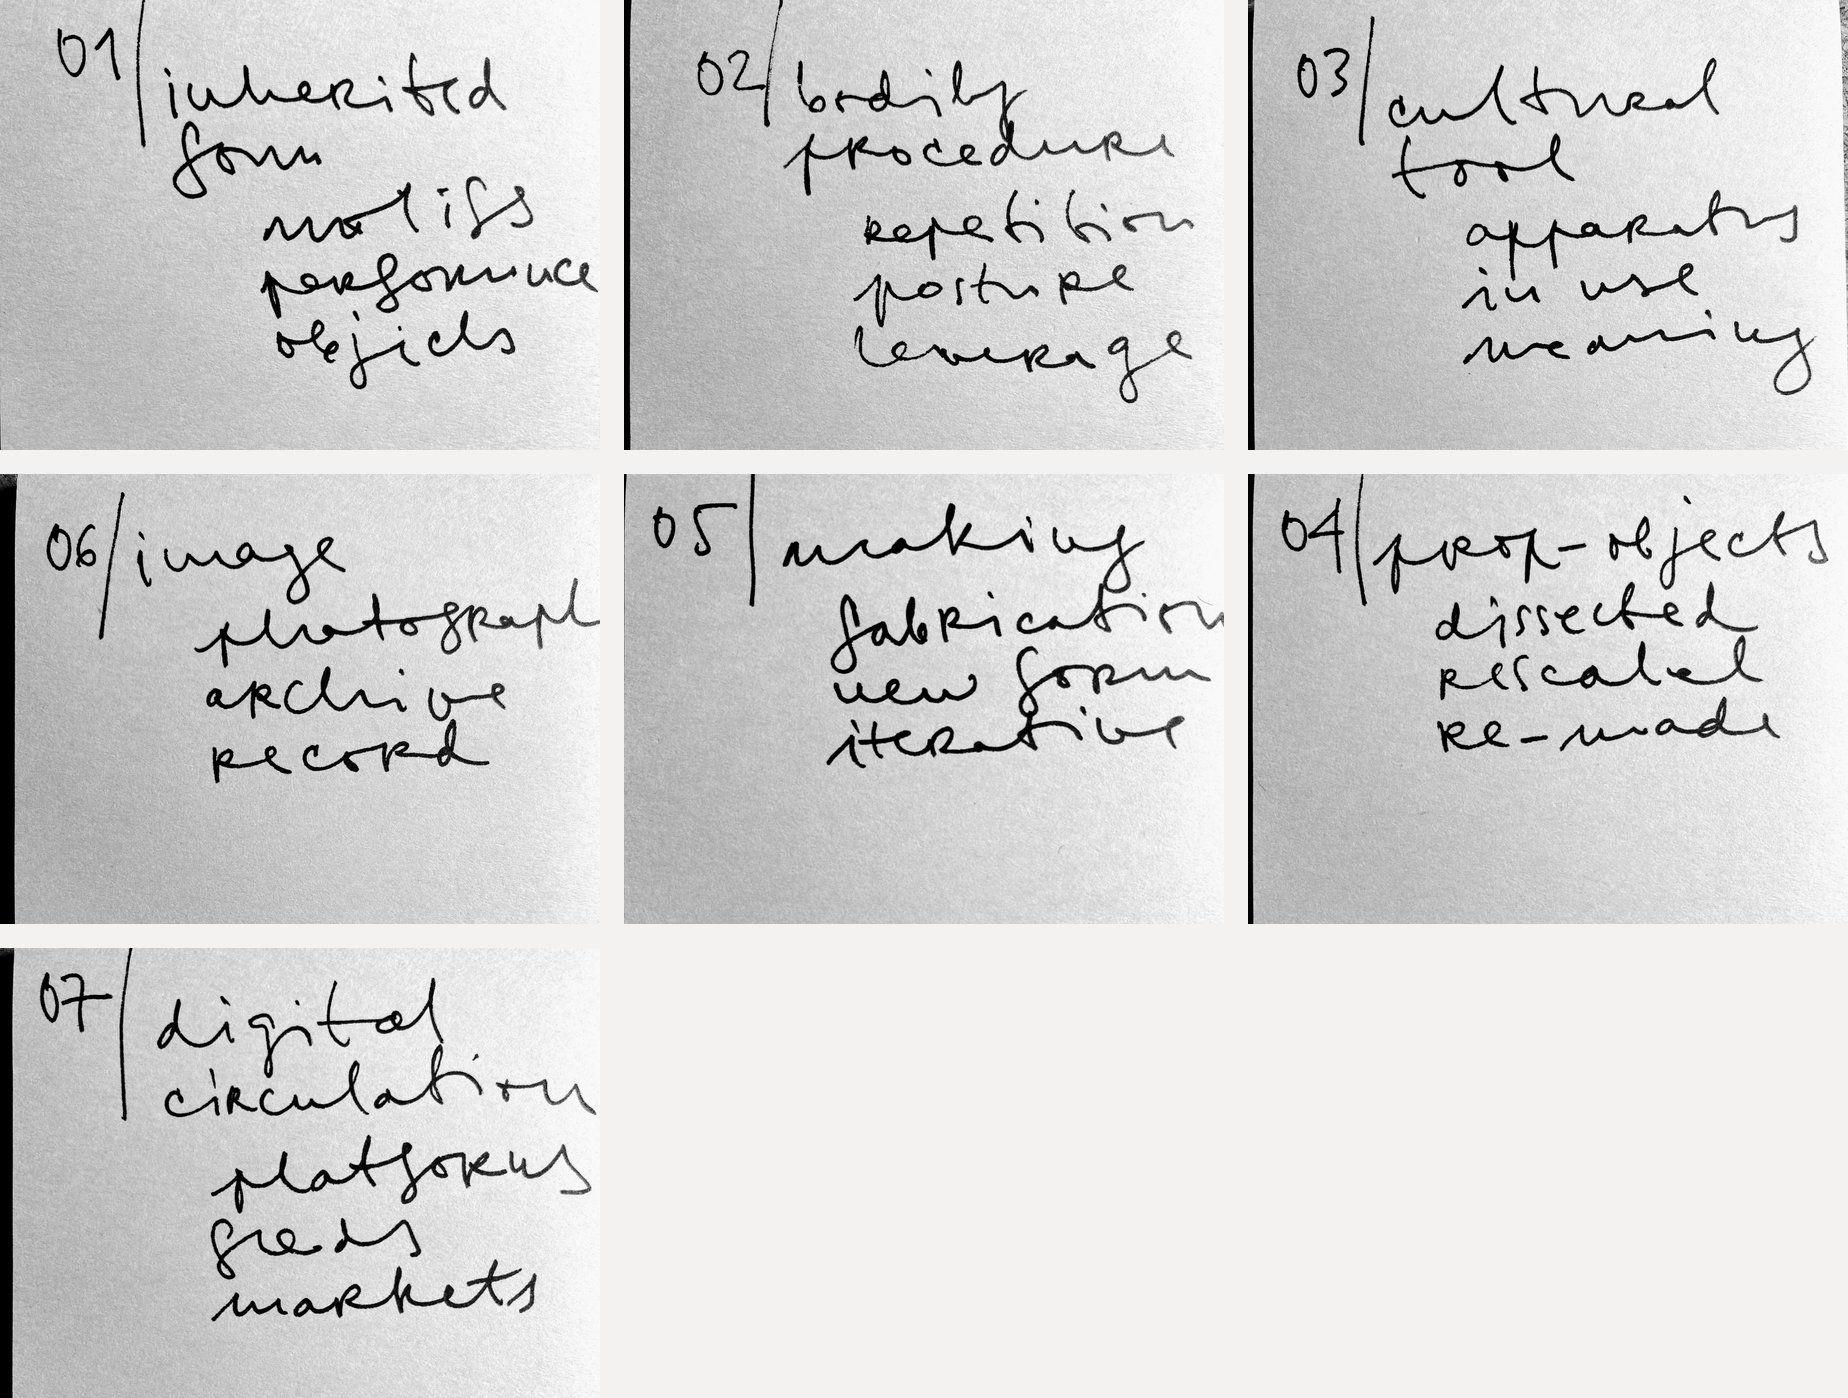
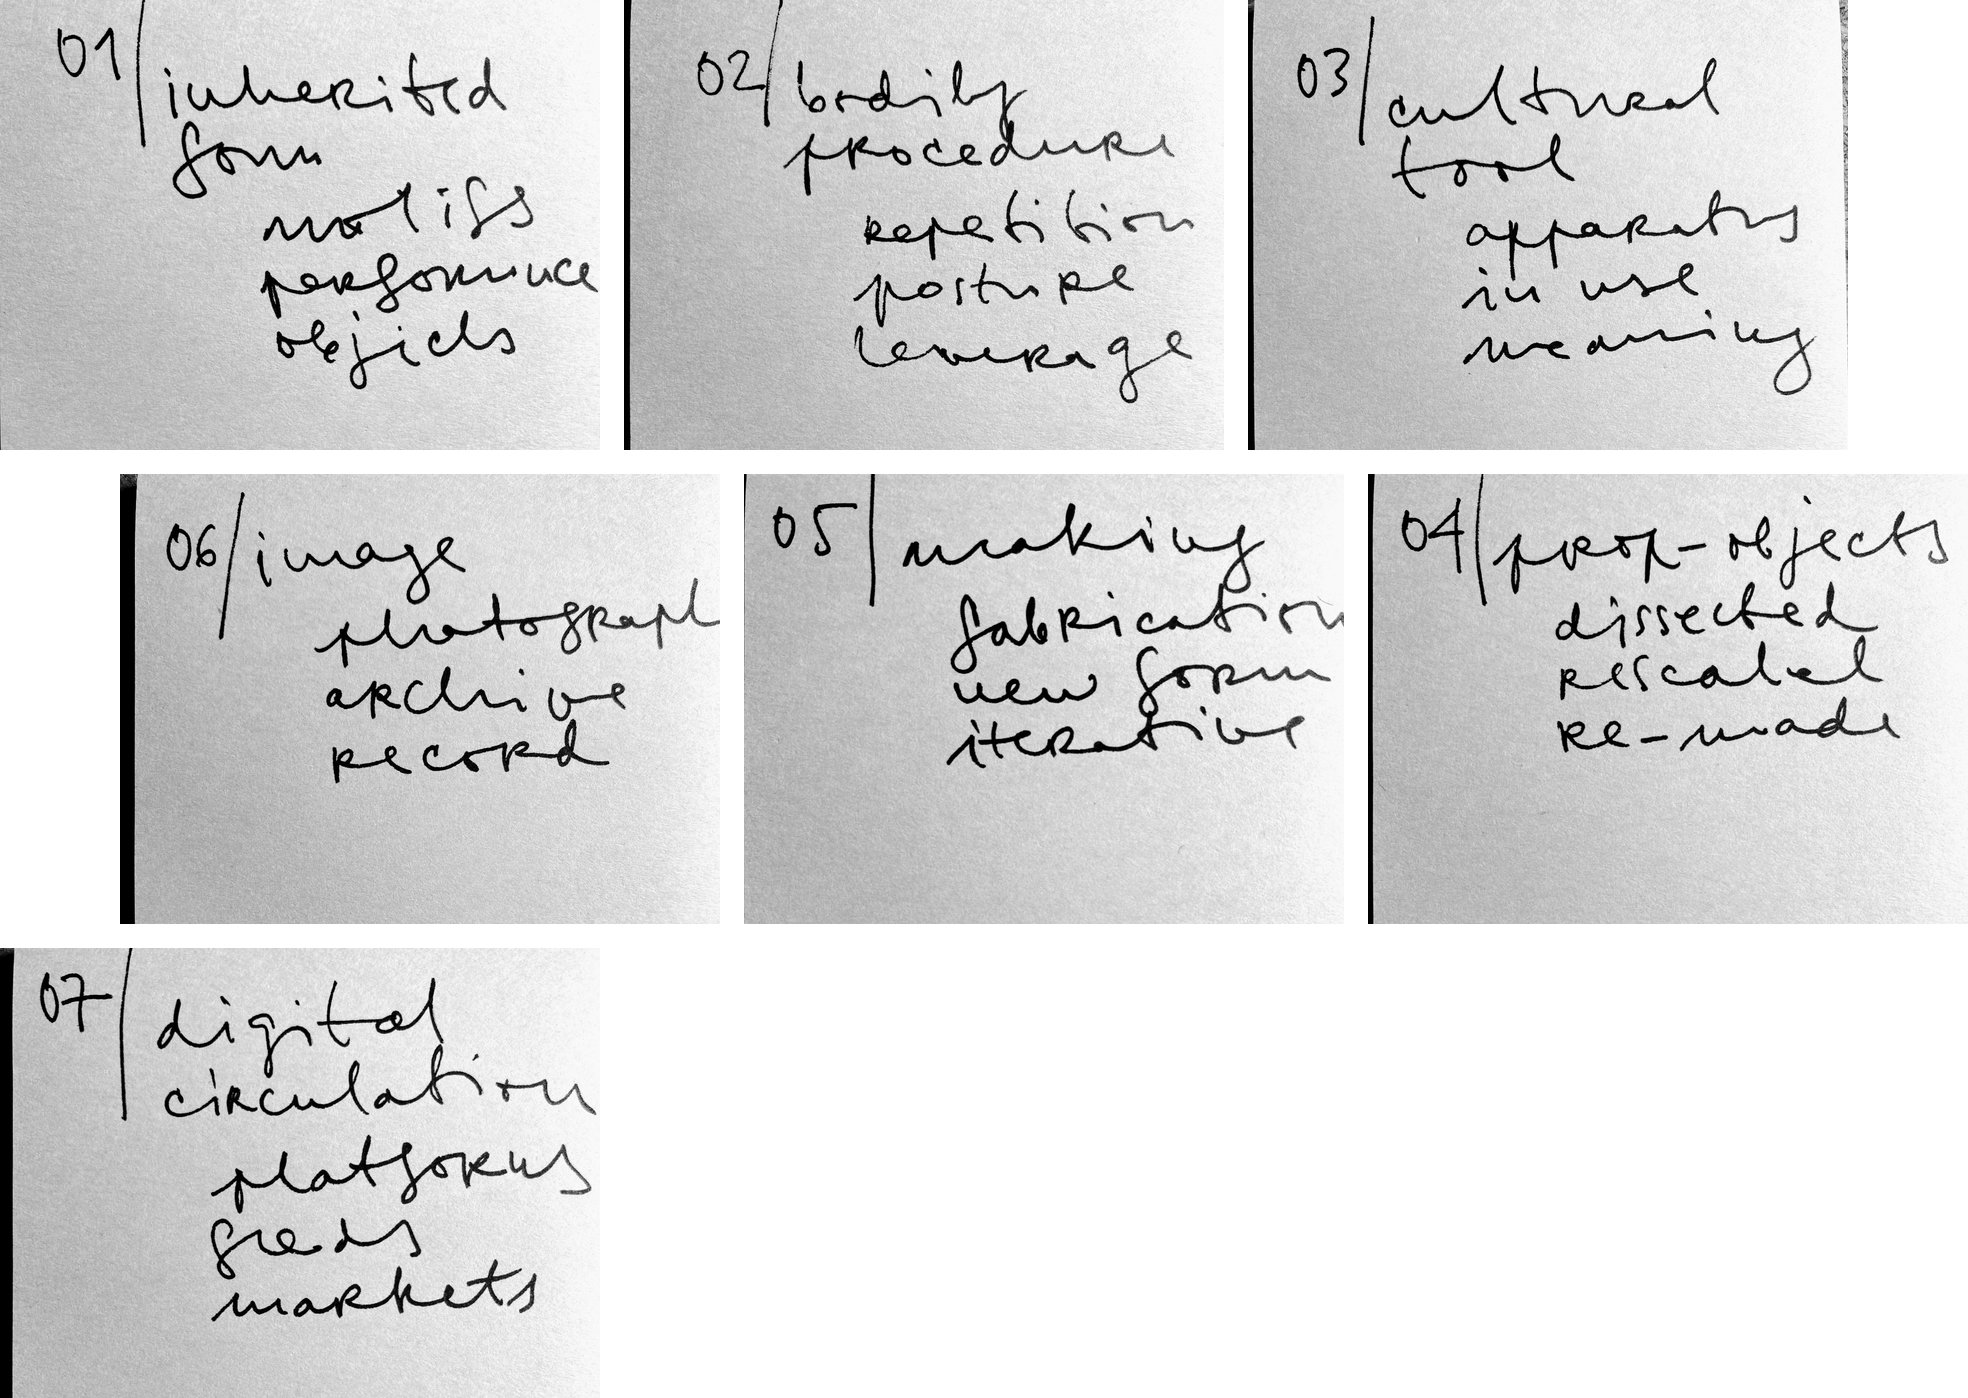
Stagger the collage's second row and apply multiply blending
Claude-Session: https://claude.ai/code/session_01ERTXtCrZf7uX1Sn1NbupJ9

Changed region(s): [[0.0, 0.0, 1.0, 0.9535], [0.0308, 0.0, 0.2776, 0.1538]]

diff --git a/channel-b-measure-of-a-stick.html b/channel-b-measure-of-a-stick.html
@@ -1414,6 +1414,8 @@ p {
 .transformation-raster img {
   display: block;
 
+  mix-blend-mode: multiply;
+
   width: 100%;
   max-width: 720px;
   height: auto;
@@ -2169,7 +2171,7 @@ p {
       <img
         src="images/transformation-collage.jpg"
         alt="Seven handwritten cards, numbered 01 to 07, in the order of the text diagram: inherited form, bodily procedure and cultural tool; image, making and prop-object; digital circulation."
-        width="1848"
+        width="1968"
         height="1398"
         loading="lazy"
       >
